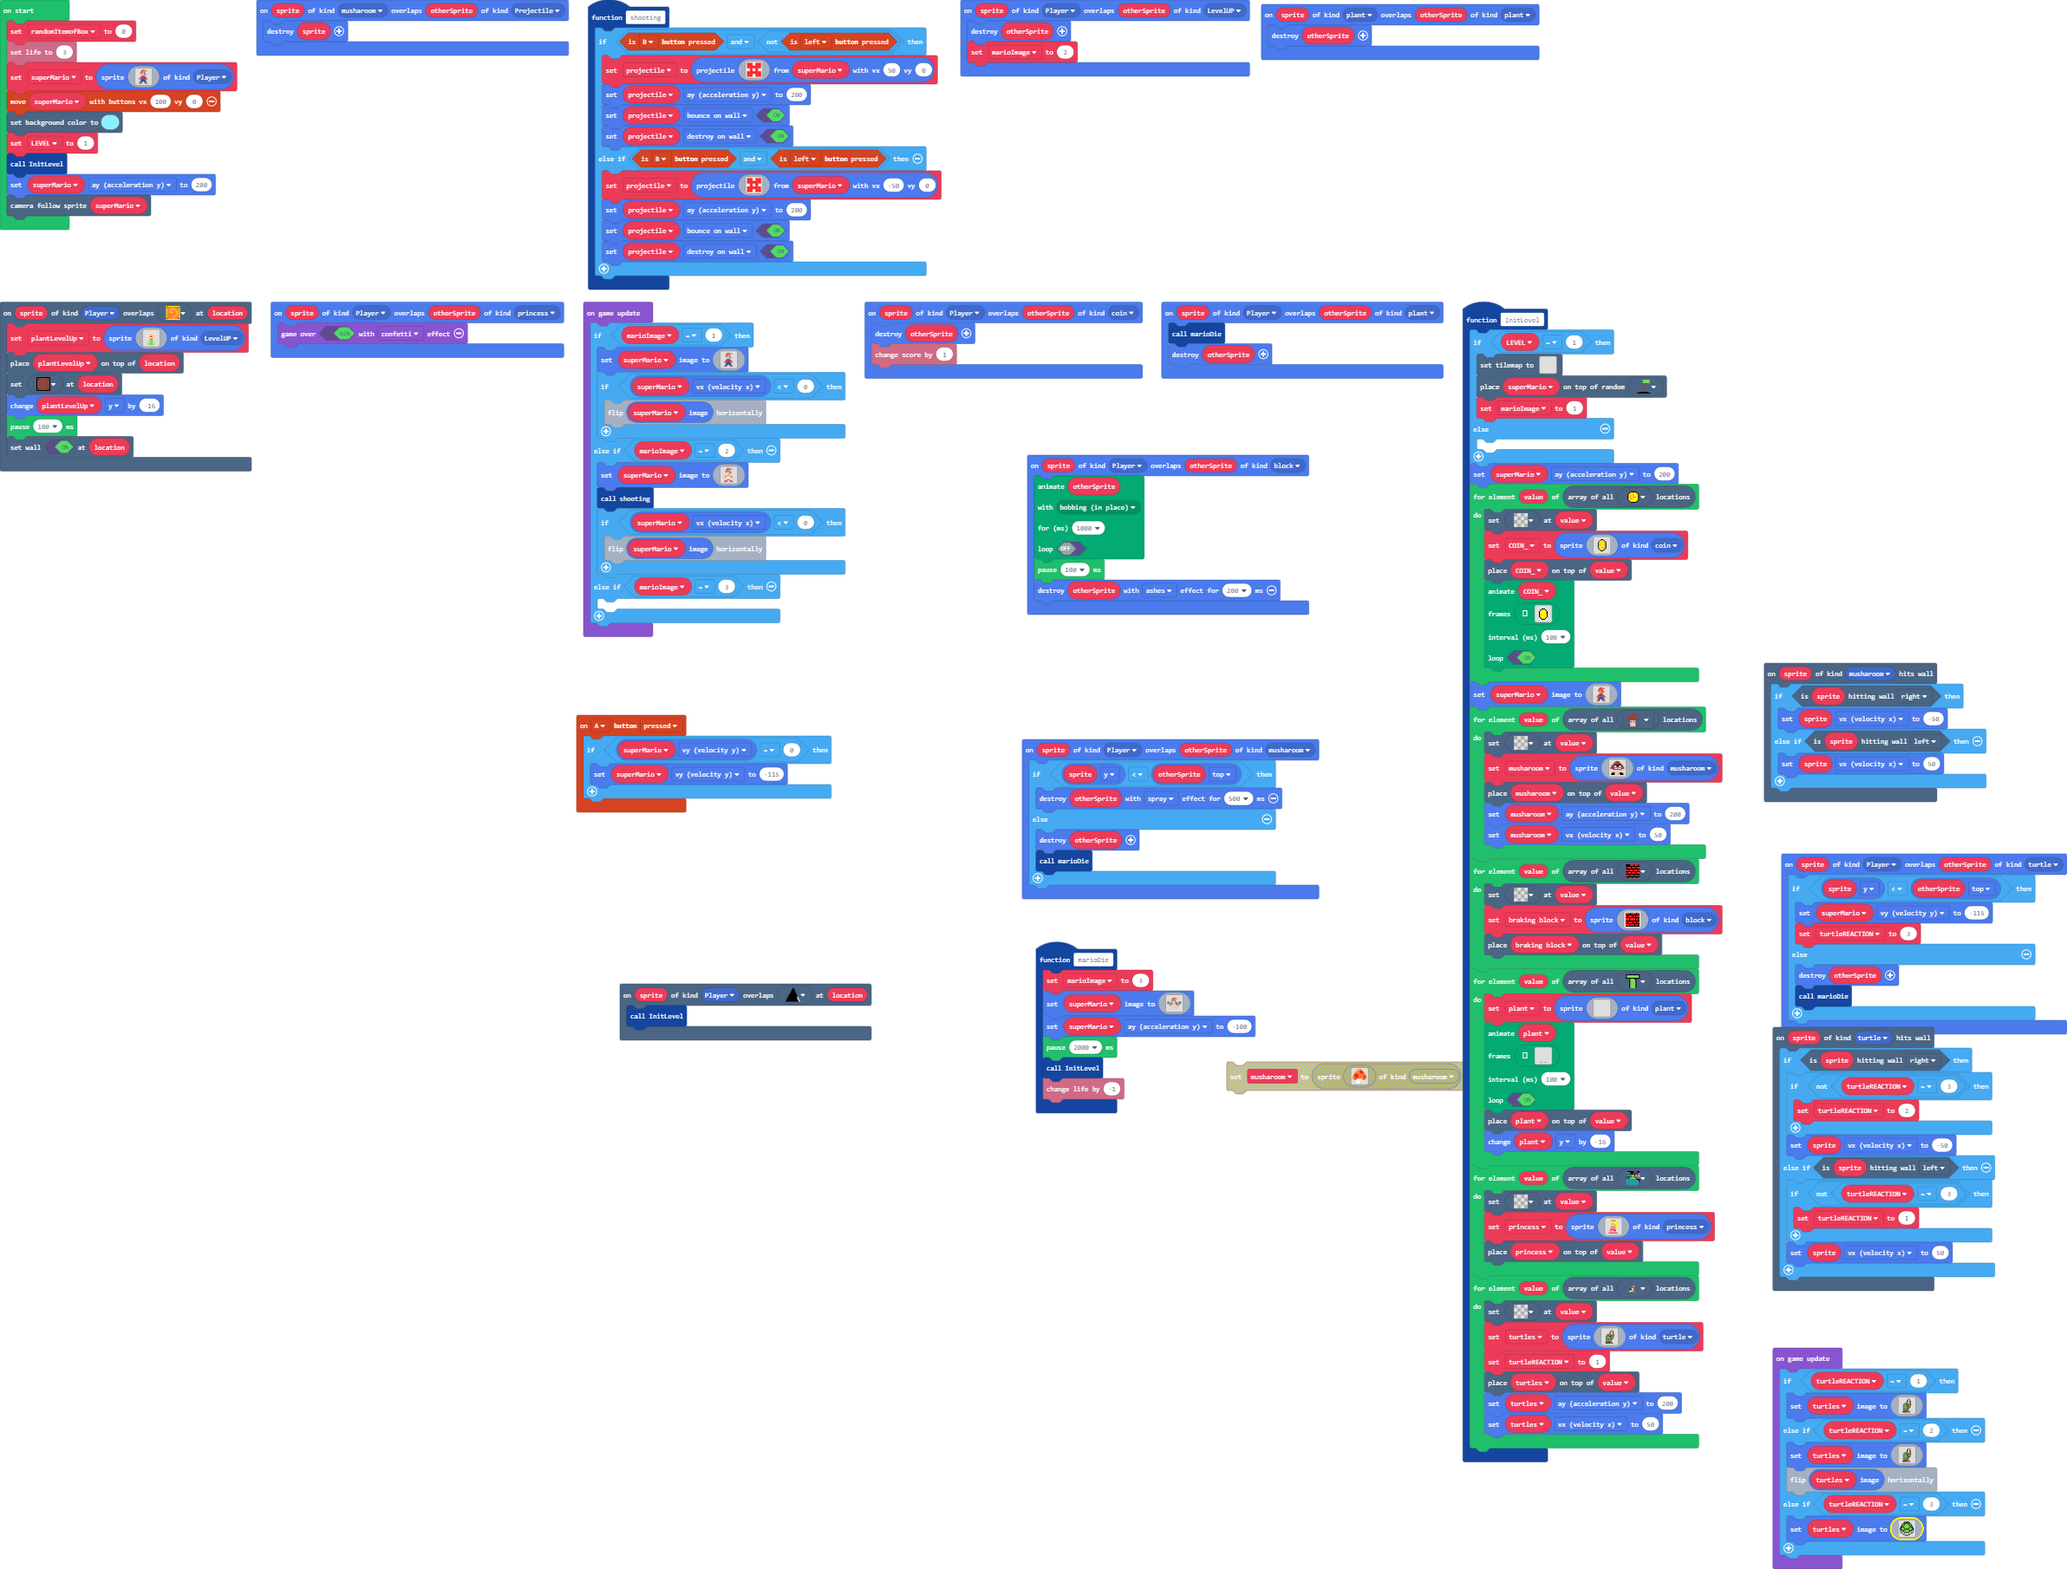
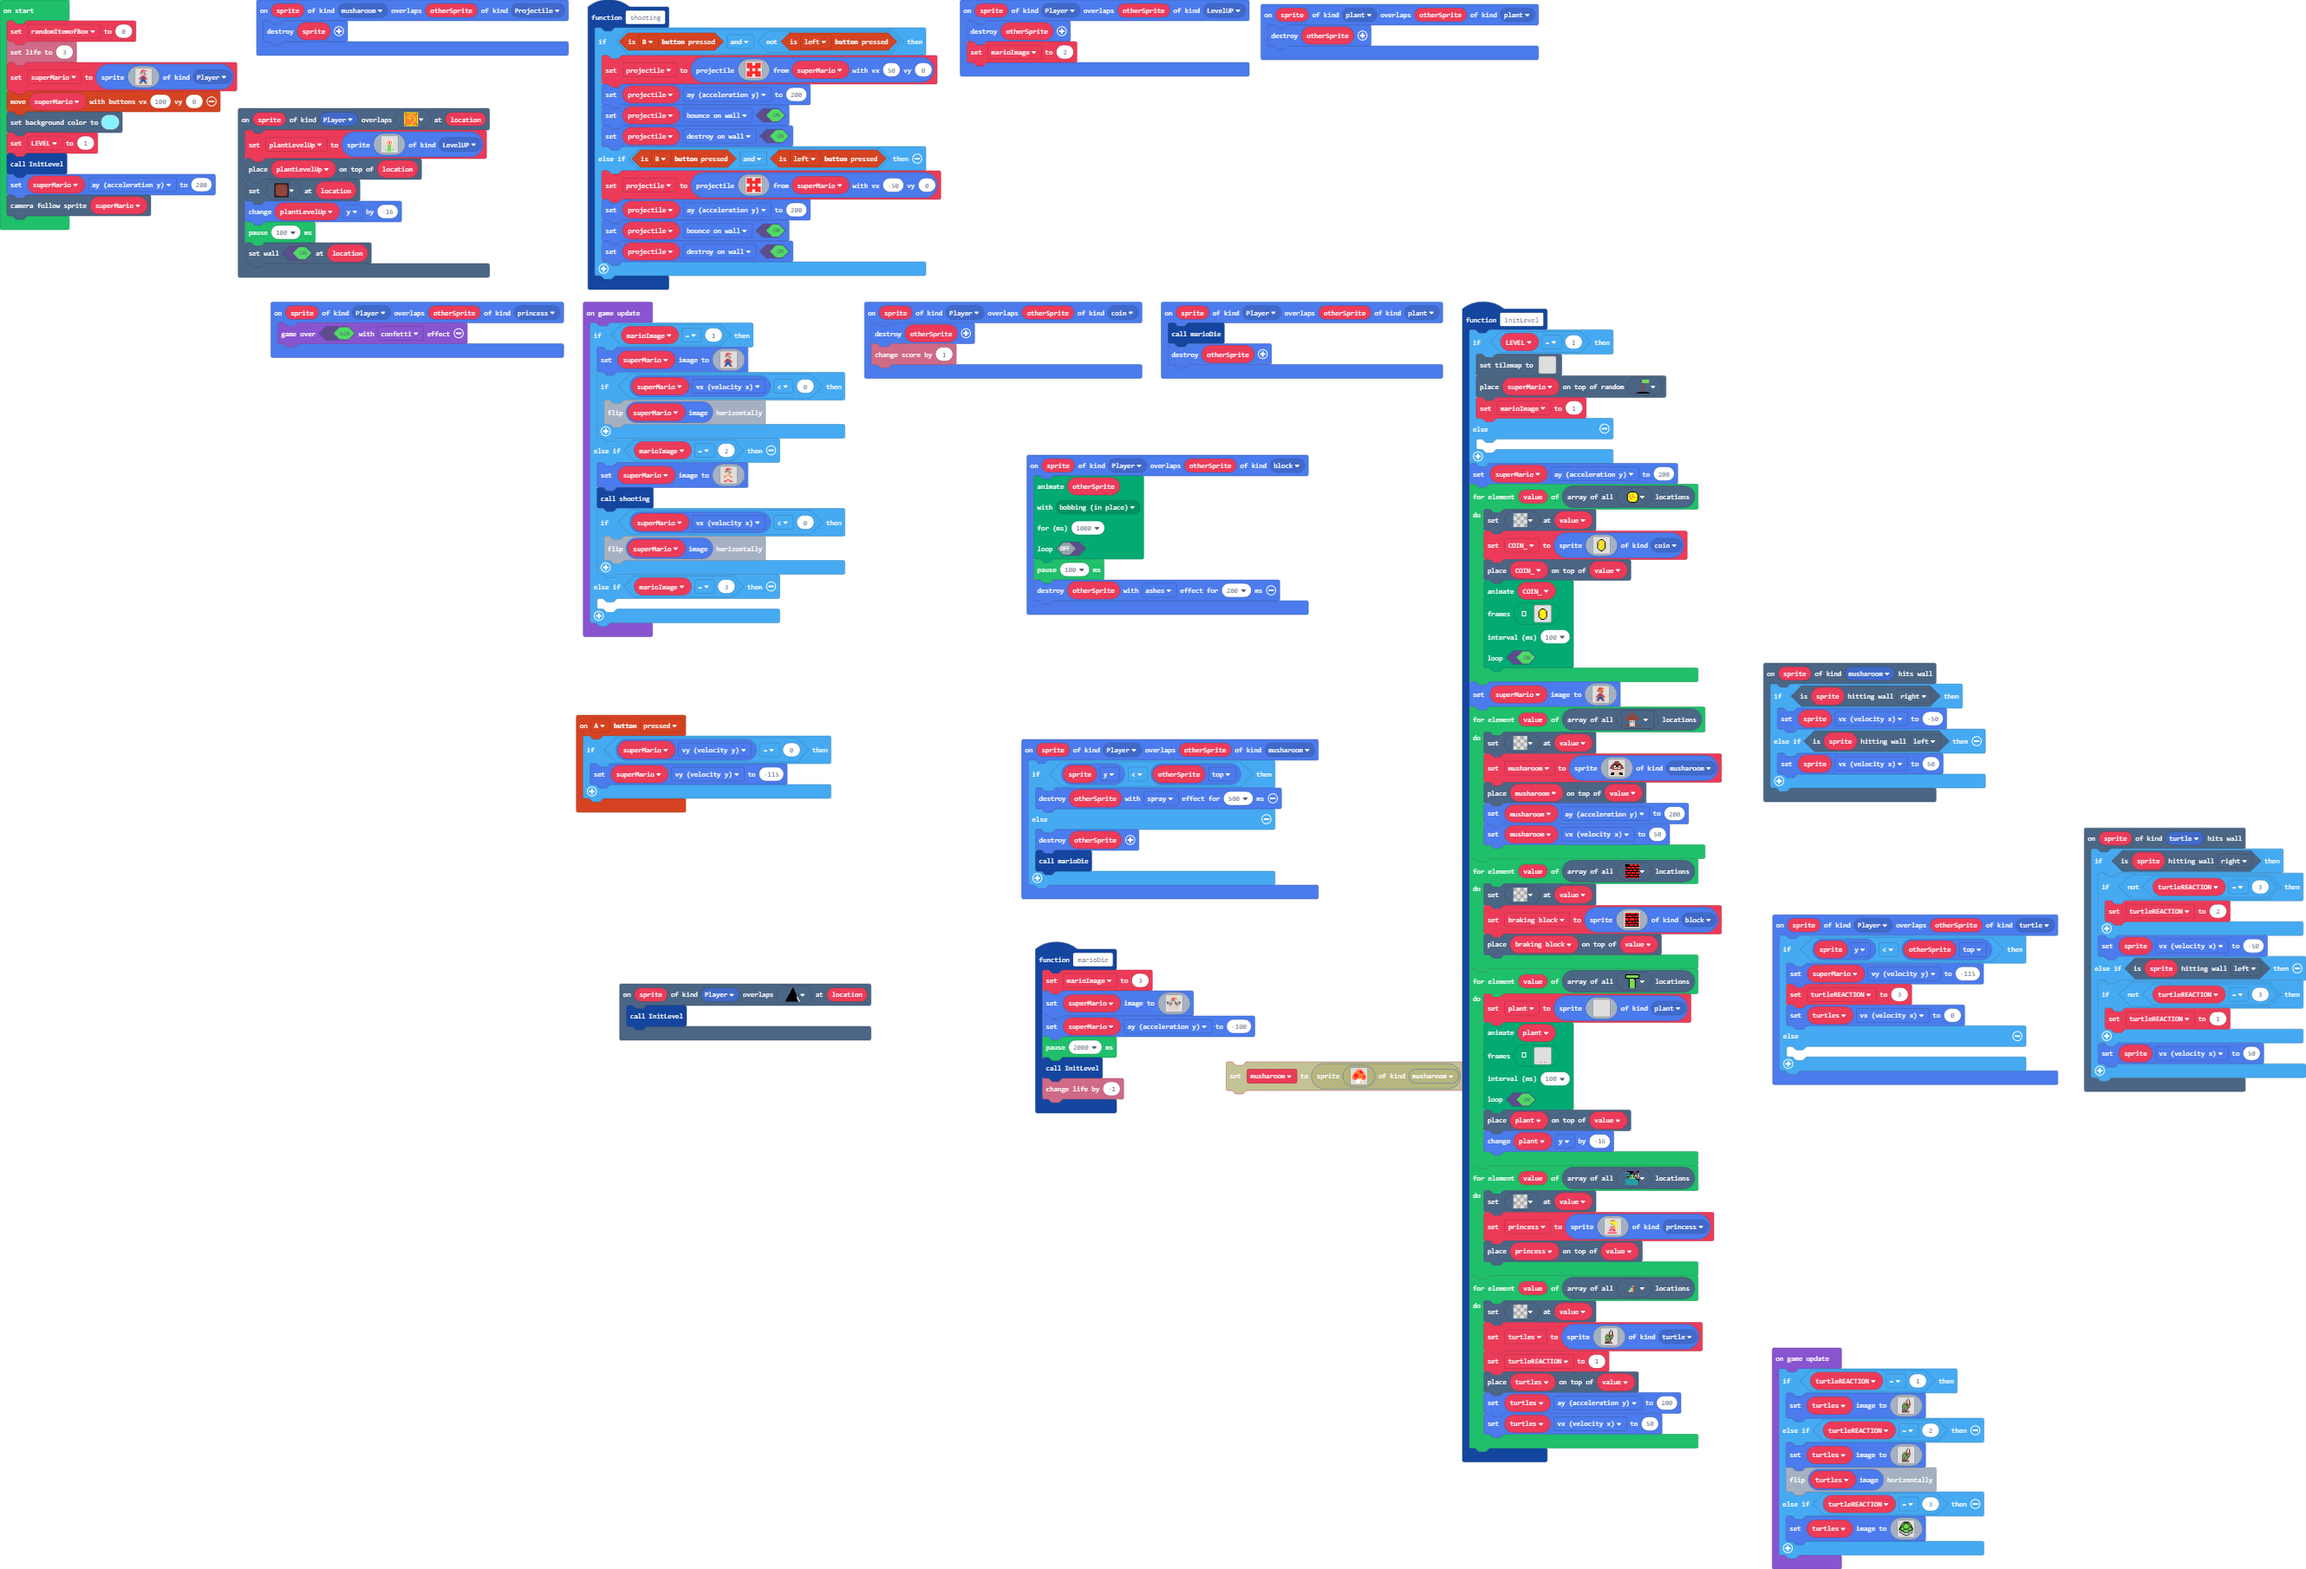
Update main.blocks, main.ts

diff --git a/main.ts b/main.ts
@@ -228,9 +228,9 @@ sprites.onOverlap(SpriteKind.Player, SpriteKind.turtle, function (sprite, otherS
     if (sprite.y < otherSprite.top) {
         superMario.vy = -115
         turtleREACTION = 3
+        turtles.vx = 0
     } else {
-        otherSprite.destroy()
-        marioDie()
+    	
     }
 })
 function marioDie () {
@@ -1533,7 +1533,6 @@ function shooting () {
     }
 }
 let projectile: Sprite = null
-let turtles: Sprite = null
 let princess: Sprite = null
 let plant: Sprite = null
 let braking_block: Sprite = null
@@ -1541,6 +1540,7 @@ let musharoom: Sprite = null
 let COIN_: Sprite = null
 let plantLevelUp: Sprite = null
 let marioImage = 0
+let turtles: Sprite = null
 let turtleREACTION = 0
 let LEVEL = 0
 let superMario: Sprite = null
